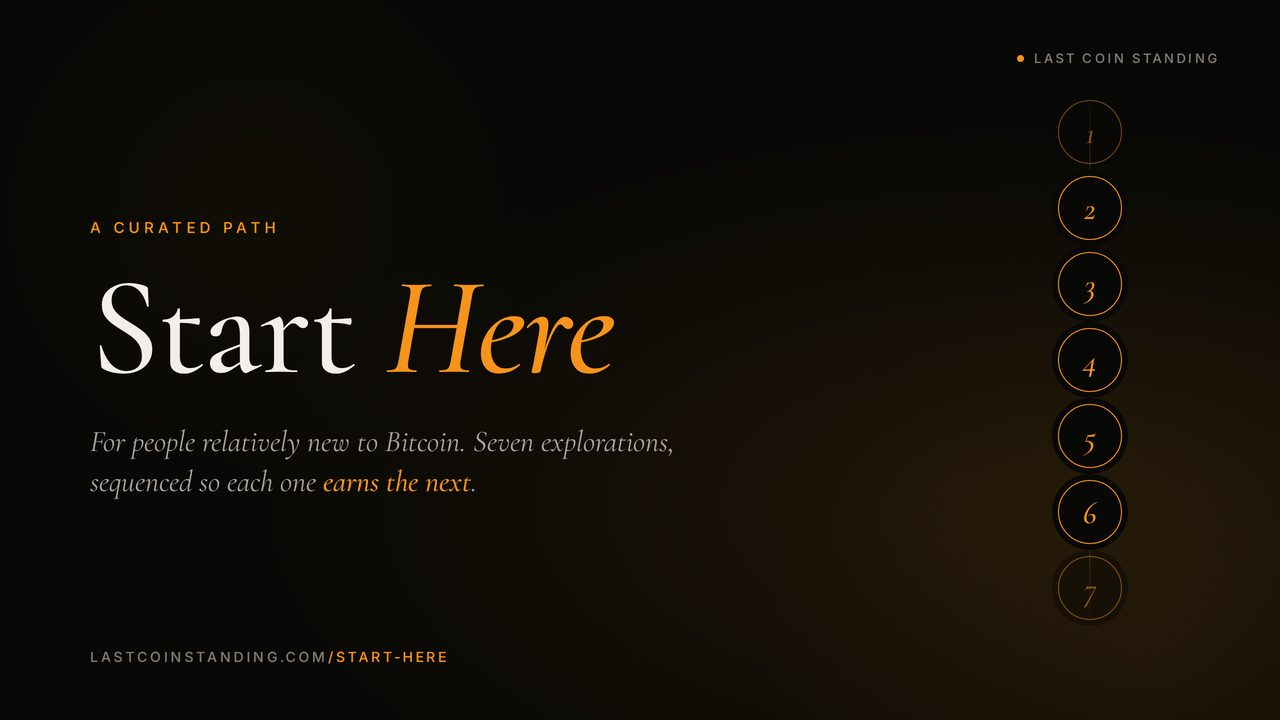
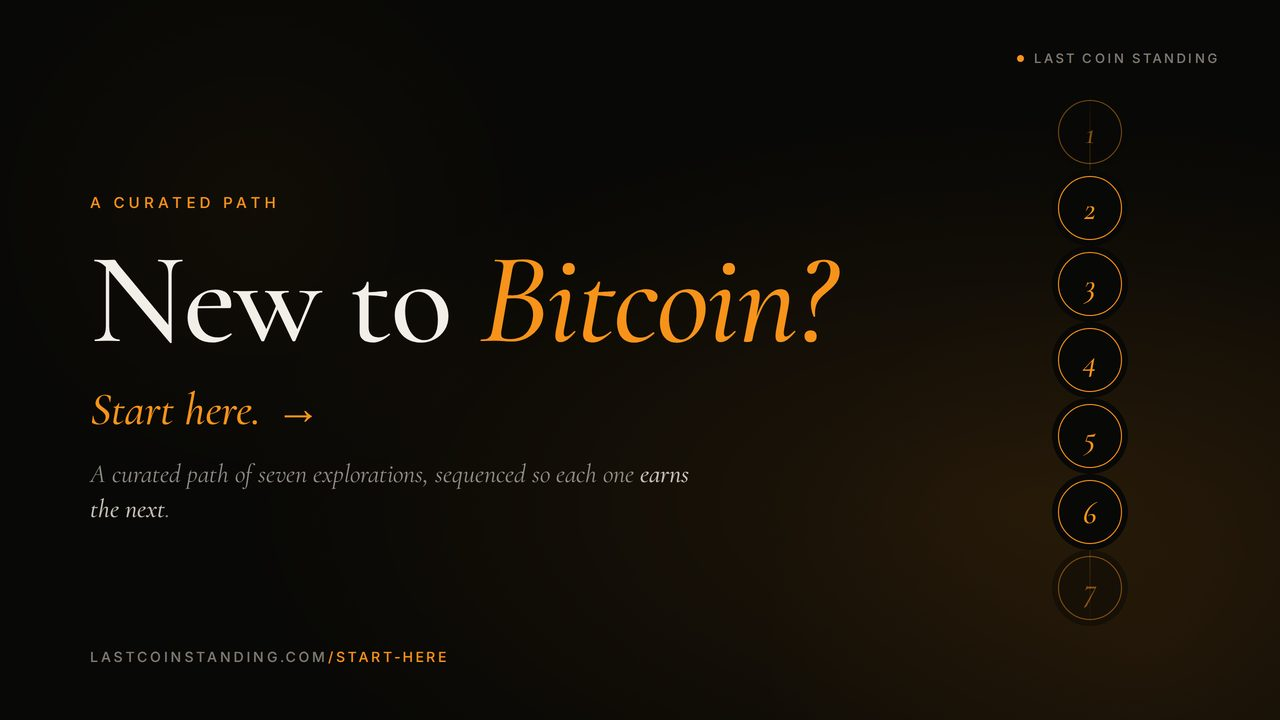
OG card: revise headline hierarchy — lead with 'New to Bitcoin?', demote 'Start here' to CTA
User feedback: the v1 card (commit 505e0ac) had 'Start Here' as the
dominant typography. That's the ACTION, not the value proposition —
when a card surfaces in a social feed, 'Start Here' alone doesn't
tell a viewer what to expect or why they should click.

REVISED HIERARCHY

Now the card reads as a marketing-copy progression:

  Eyebrow:    'A CURATED PATH'  (small caps, amber)
  Headline:   'New to Bitcoin?'  (130px Cormorant, 'Bitcoin' italic-amber
                                  matching the 'Last Coin Standing' /
                                  'Coin' brand pattern)
  CTA:        'Start here. →'  (46px italic amber — clearly the action)
  Subtitle:   'A curated path of seven explorations, sequenced so each
              one earns the next.'  (italic Cormorant, dimmed)

The question 'New to Bitcoin?' qualifies the audience and gives a
reason to engage. 'Start here.' below it is the inviting answer.
The subtitle quantifies what's behind the link (seven explorations,
deliberately sequenced). Reads in the order that earns the click.

The right-side atmospheric pathway numerals (1-7 with the amber rail)
and the brand mark / footer URL are unchanged.

VISUAL NOTES

  - Title weight slightly reduced from 140px to 130px to accommodate
    the longer 'New to Bitcoin?' string without crowding the right
    edge of the editorial column.
  - Subtitle slightly reduced from 30px to 26px to maintain hierarchy
    below the now-prominent italic 'Start here.' CTA.
[…]

Changed region(s): [[0.0625, 0.275, 0.6562, 0.5194], [0.0625, 0.55, 0.5312, 0.7333], [0.2188, 0.55, 0.25, 0.5806]]

diff --git a/src/_includes/_pageassets/start-here-head.html b/src/_includes/_pageassets/start-here-head.html
@@ -16,12 +16,12 @@
 <meta property="og:image:width" content="1280">
 <meta property="og:image:height" content="720">
 <meta property="og:image:type" content="image/jpeg">
-<meta property="og:image:alt" content="Start Here — Last Coin Standing. A curated path for newcomers to Bitcoin: seven sequential explorations from framework through commitment. Atmospheric editorial composition with the seven step numerals as a visual sequence.">
+<meta property="og:image:alt" content="New to Bitcoin? Start here — a curated path for newcomers. Seven sequential explorations from framework through commitment. Atmospheric editorial composition with the seven step numerals as a visual sequence on the right.">
 <meta name="twitter:card" content="summary_large_image">
 <meta name="twitter:title" content="Start Here — Last Coin Standing">
 <meta name="twitter:description" content="A curated path for people relatively new to Bitcoin. Seven explorations sequenced so each one earns the next — framework, emotion, quantification, introduction, mechanism, evidence, commitment.">
 <meta name="twitter:image" content="https://lastcoinstanding.com/og-start-here.jpg">
-<meta name="twitter:image:alt" content="Start Here — a curated pathway for newcomers to Bitcoin. Seven sequential explorations from philosophical framework through full structural commitment.">
+<meta name="twitter:image:alt" content="New to Bitcoin? Start here — a curated path for newcomers. Seven sequential explorations from philosophical framework through full structural commitment.">
 <script type="application/ld+json">
 {
   "@context": "https://schema.org",
